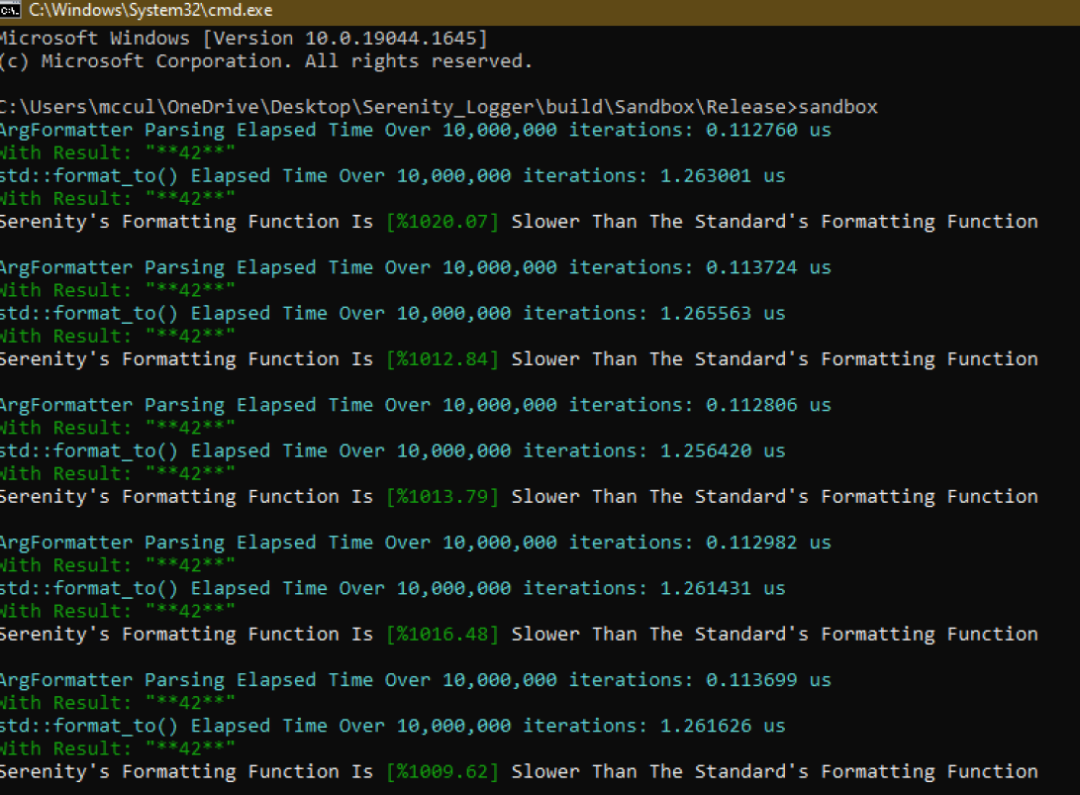
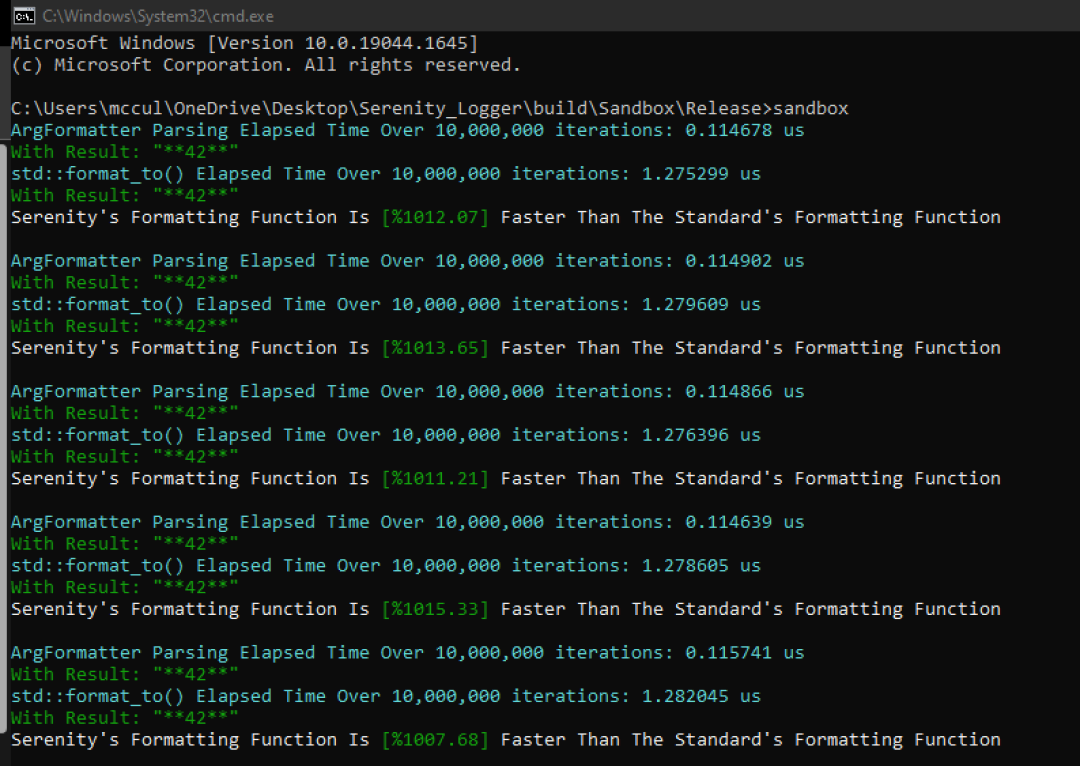
fixed typo

Changed region(s): [[0.0, 0.0, 1.0, 0.9909]]

diff --git a/Serenity/include/serenity/MessageDetails/Message_Formatter.h b/Serenity/include/serenity/MessageDetails/Message_Formatter.h
@@ -77,11 +77,10 @@ namespace serenity::msg_details {
 		VoidPtrType      = 14,
 	};
 
-	static std::unordered_map<size_t, SpecType> mapIndexToType = {
-		{ 0, SpecType::MonoType },        { 1, SpecType::StringType },        { 2, SpecType::CharPointerType }, { 3, SpecType::StringViewType },
-		{ 4, SpecType::IntType },         { 5, SpecType::U_IntType },         { 6, SpecType::LongLongType },    { 7, SpecType::U_LongLongType },
-		{ 8, SpecType::BoolType },        { 9, SpecType::CharType },          { 10, SpecType::FloatType },      { 11, SpecType::DoubleType },
-		{ 12, SpecType::LongDoubleType }, { 13, SpecType::ConstVoidPtrType }, { 14, SpecType::VoidPtrType },
+	static constexpr std::array<SpecType, 15> mapIndexToType = {
+		SpecType::MonoType,   SpecType::StringType,    SpecType::CharPointerType, SpecType::StringViewType,   SpecType::IntType,
+		SpecType::U_IntType, SpecType::LongLongType, SpecType::U_LongLongType,  SpecType::BoolType,         SpecType::CharType,
+		SpecType::FloatType, SpecType::DoubleType,   SpecType::LongDoubleType,  SpecType::ConstVoidPtrType, SpecType::VoidPtrType,
 	};
 
 	static std::unordered_map<SpecType, size_t> mapTypeToIndex = {
@@ -244,30 +243,41 @@ namespace serenity::msg_details {
 		void AlignLeft(size_t index, std::string& container);
 		void AlignRight(size_t index, std::string& container);
 		void AlignCenter(size_t index, std::string& container);
+		constexpr void StoreArgTypes() {
+			for (auto& arg : argContainer) {
+				argSpecTypes.emplace_back(mapIndexToType[arg.index()]);
+			}
+		}
 
 		// Moved Formatting Templates Here While I Work On Some Things
 		template<typename... Args> constexpr void EmplaceBackArgs(Args&&... args) {
 			(
-			[ = ](auto&& arg) {
-				auto typeFound = is_supported<std::remove_reference_t<decltype(arg)>, LazilySupportedTypes> {};
-				if constexpr( !typeFound.value ) {
-						containsUnknownType = true;
-				} else {
-						if( containsUnknownType ) return;
-						argContainer.emplace_back(arg);
-						argSpecTypes.emplace_back(mapIndexToType[ argContainer.back().index() ]);
+				[=](auto&& arg) {
+					if (!std::is_constant_evaluated()) {
+						argContainer.emplace_back(std::forward<std::decay_t<decltype(arg)>>((arg)));
 					}
-			}(args),
-			...);
+					else {
+						auto typeFound = is_supported<std::decay_t<decltype(arg)>, LazilySupportedTypes>{};
+						if constexpr (!typeFound.value) {
+							containsUnknownType = true;
+						}
+						else {
+							if (containsUnknownType) return;
+						}
+					}
+				}(args),
+					...);
 		}
 
 		template<typename... Args> void CaptureArgs(std::string_view formatString, Args&&... args) {
 			Reset();
 			CountNumberOfBrackets(formatString);
+			argContainer.reserve(sizeof...(args));
 			EmplaceBackArgs(std::forward<Args>(args)...);
-			size_t size { argContainer.size() };
-			if( size != 0 ) {
-					maxIndex = size - 1;
+			StoreArgTypes();
+			size_t size{ argContainer.size() };
+			if (size != 0) {
+				maxIndex = size - 1;
 			}
 		}
 

diff --git a/Serenity/include/serenity/MessageDetails/ArgContainer.h b/Serenity/include/serenity/MessageDetails/ArgContainer.h
@@ -101,11 +101,11 @@ namespace serenity::experimental::msg_details {
 		return s;
 	}
 
-	static constexpr std::array<SpecType, 15> mapIndexToType   = { SpecType::MonoType,        SpecType::StringType,        SpecType::CharPointerType,
-		                                                           SpecType ::StringViewType, SpecType ::IntType,          SpecType ::U_IntType,
-		                                                           SpecType ::LongLongType,   SpecType::U_LongLongType,    SpecType ::BoolType,
-		                                                           SpecType::CharType,        SpecType ::FloatType,        SpecType ::DoubleType,
-		                                                           SpecType::LongDoubleType,  SpecType ::ConstVoidPtrType, SpecType ::VoidPtrType };
+	static constexpr std::array<SpecType, 15> mapIndexToType = {
+		SpecType::MonoType,   SpecType::StringType,    SpecType::CharPointerType, SpecType ::StringViewType,   SpecType ::IntType,
+		SpecType ::U_IntType, SpecType ::LongLongType, SpecType::U_LongLongType,  SpecType ::BoolType,         SpecType::CharType,
+		SpecType ::FloatType, SpecType ::DoubleType,   SpecType::LongDoubleType,  SpecType ::ConstVoidPtrType, SpecType ::VoidPtrType,
+	};
 
 	static std::unordered_map<SpecType, size_t> mapTypeToIndex = {
 		{ SpecType::MonoType, 0 },        { SpecType::StringType, 1 },        { SpecType::CharPointerType, 2 }, { SpecType::StringViewType, 3 },
@@ -230,8 +230,8 @@ namespace serenity::experimental::msg_details {
 			StoreArgTypes();
 		}
 
-		ArgContainer()                               = default;
-		ArgContainer(const ArgContainer&)            = delete;
+		ArgContainer()                    = default;
+		ArgContainer(const ArgContainer&) = delete;
 		ArgContainer& operator=(const ArgContainer&) = delete;
 		~ArgContainer()                              = default;
 

diff --git a/Serenity/include/serenity/Version.h b/Serenity/include/serenity/Version.h
@@ -5,15 +5,15 @@
 
 #define SERENITY_VERSION_MAJOR 0
 #define SERENITY_VERSION_MINOR 2
-#define SERENITY_VERSION_REVISION 237
+#define SERENITY_VERSION_REVISION 238
 
 // clang-format on
 
-#define VERSION_STRING_FORMAT(major, minor, revision) #major "." #minor "." #revision
-#define VERSION_NUMBER(maj, min, rev)                 VERSION_STRING_FORMAT(maj, min, rev)
+#define VERSION_STRING_FORMAT( major, minor, revision ) #major "." #minor "." #revision
+#define VERSION_NUMBER( maj, min, rev )                 VERSION_STRING_FORMAT( maj, min, rev )
 
 // Last Built Statistics
-#define SE_DAY                                        09
-#define SE_MONTH                                      05
-#define SE_YEAR                                       2022
-#define SE_LAST_BUILT                                 "17:11:37"
+#define SE_DAY         11
+#define SE_MONTH       05
+#define SE_YEAR        2022
+#define SE_LAST_BUILT  "15:40:04"

diff --git a/Sandbox/src/Sandbox.cpp b/Sandbox/src/Sandbox.cpp
@@ -275,7 +275,7 @@ int main() {
 					auto percentage { SetPrecision(std::abs(percentValue), 2) };
 					console.Debug(Tag::Bright_White("Serenity's Formatting Function Is ")
 					              .append(Tag::Green("[%" + percentage.append("]")))
-					              .append(Tag::Bright_White(" Slower Than The Standard's Formatting Function\n")));
+					              .append(Tag::Bright_White(" Faster Than The Standard's Formatting Function\n")));
 				}
 		}
 #endif    // ENABLE_PARSE_SECTION
